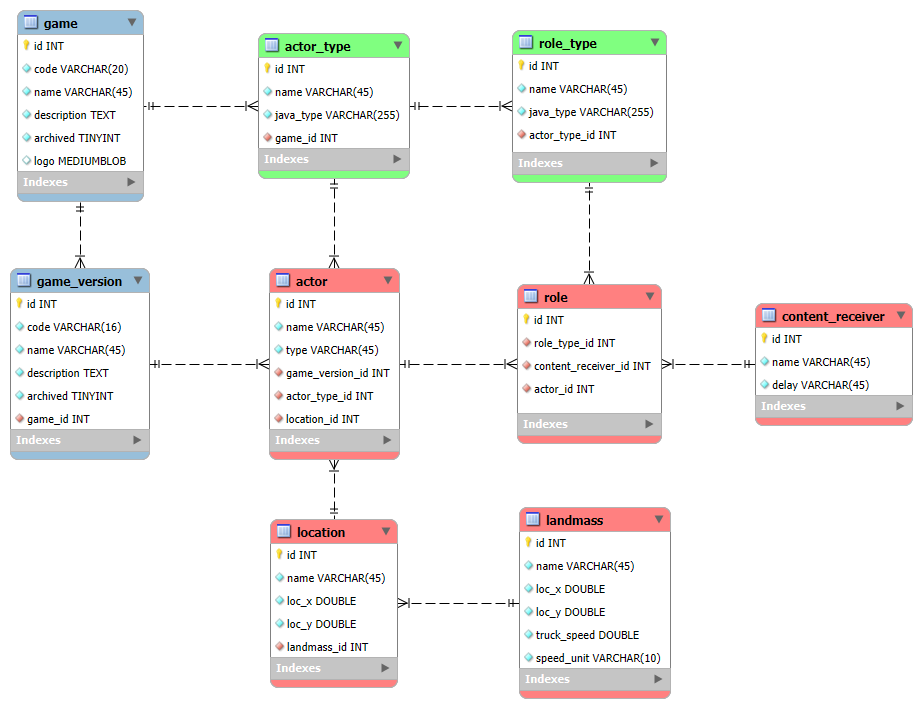
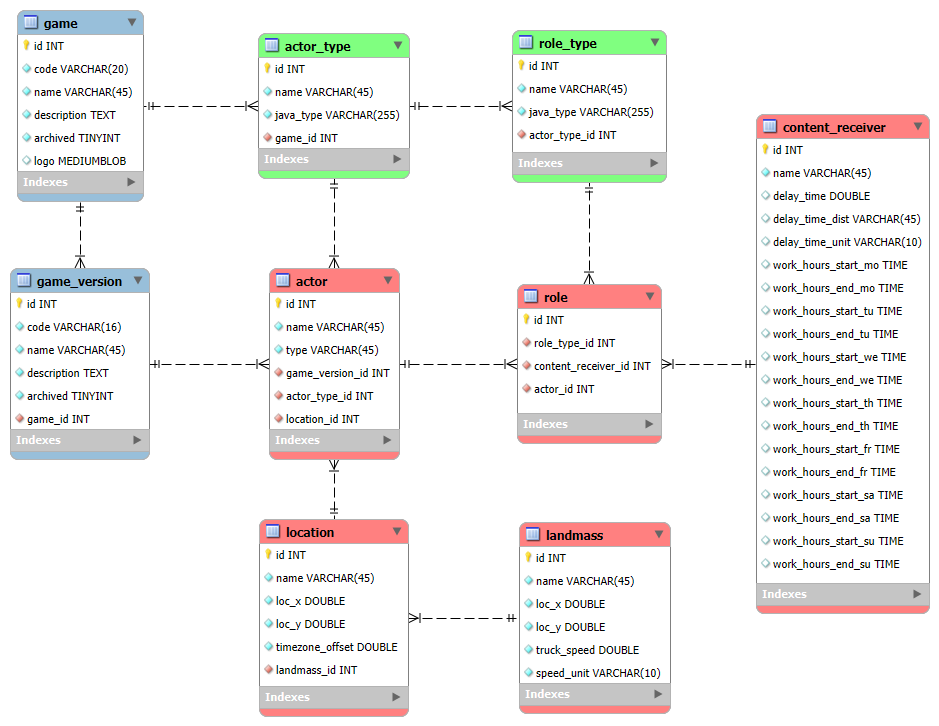
Issue #18, #36: working times and timezone added to database

diff --git a/doc/4-architecture/database-design.md b/doc/4-architecture/database-design.md
@@ -11,7 +11,9 @@ __Changelog:__
  - 2025-08-27 - Added design for Game Design Data database tables
  - 2025-08-28 - Added design choices for Game State and Game Play data
  - 2025-08-29 - Checked database design against the full set of requirements
-
+ - 2025-08-29 - Enhance `content_receiver` class [Issue #18](https://github.com/averbraeck/gscg-design/issues/18).
+ - 2025-08-29 - Add `timezone_offset` to the location [Issue #36](https://github.com/averbraeck/gscg-design/issues/36).
+ 
 
 ## 4.1.1. High-level database design
 
@@ -82,16 +84,13 @@ The actor table defines the organizations (agents) in the game with their locati
 - `actor` is the instantiation of an `actor_type` in the `game_version`. It has a `location` and one or more instances of `role`.
 - `role_type` defines a role for an `actor_type` such as Purchasing, Selling, Producing, Banking or Transporting in the simulation library. Therefore, it contains a reference to a `java_type`.
 - `role` is the instantiation of an `role_type` in the `game_version`. The `role` has a `content_receiver` that specifies when content (messages) can be received and how long it takes to process.
-- `content_receiver` is a simple specification of the delay that occurs when receiving content (messages).
-- `location` specifies an (x,y) or (lon,lat) position for the `actor`. It is located on a `landmass`.
+- `content_receiver` is a specification of the delay that occurs when receiving content (messages). It handles fixed delays, stochastic delays and working times of the actor (See Issue #18).
+- `location` specifies an (x,y) or (lon,lat) position for the `actor`. It is located on a `landmass`. A location also has a timezone offset for global trade, see Issue #36.
 - `landmass` is important, since trucks and trains cannot transport goods between landmasses, only on landmasses. For quick calculations on a landmass, the average truck speed is given for the landmass.
 
 The partial relations look as follows:
 
 ![](diagrams/gscg-database-actor-role.png)
-
-> [!NOTE]
-> The definition of `content_receiver` can probably be extended with versions that have weekend closure, that work office hours in a certain time zone, etc.
 
 
 ### Actor and Role parameter/value tables
